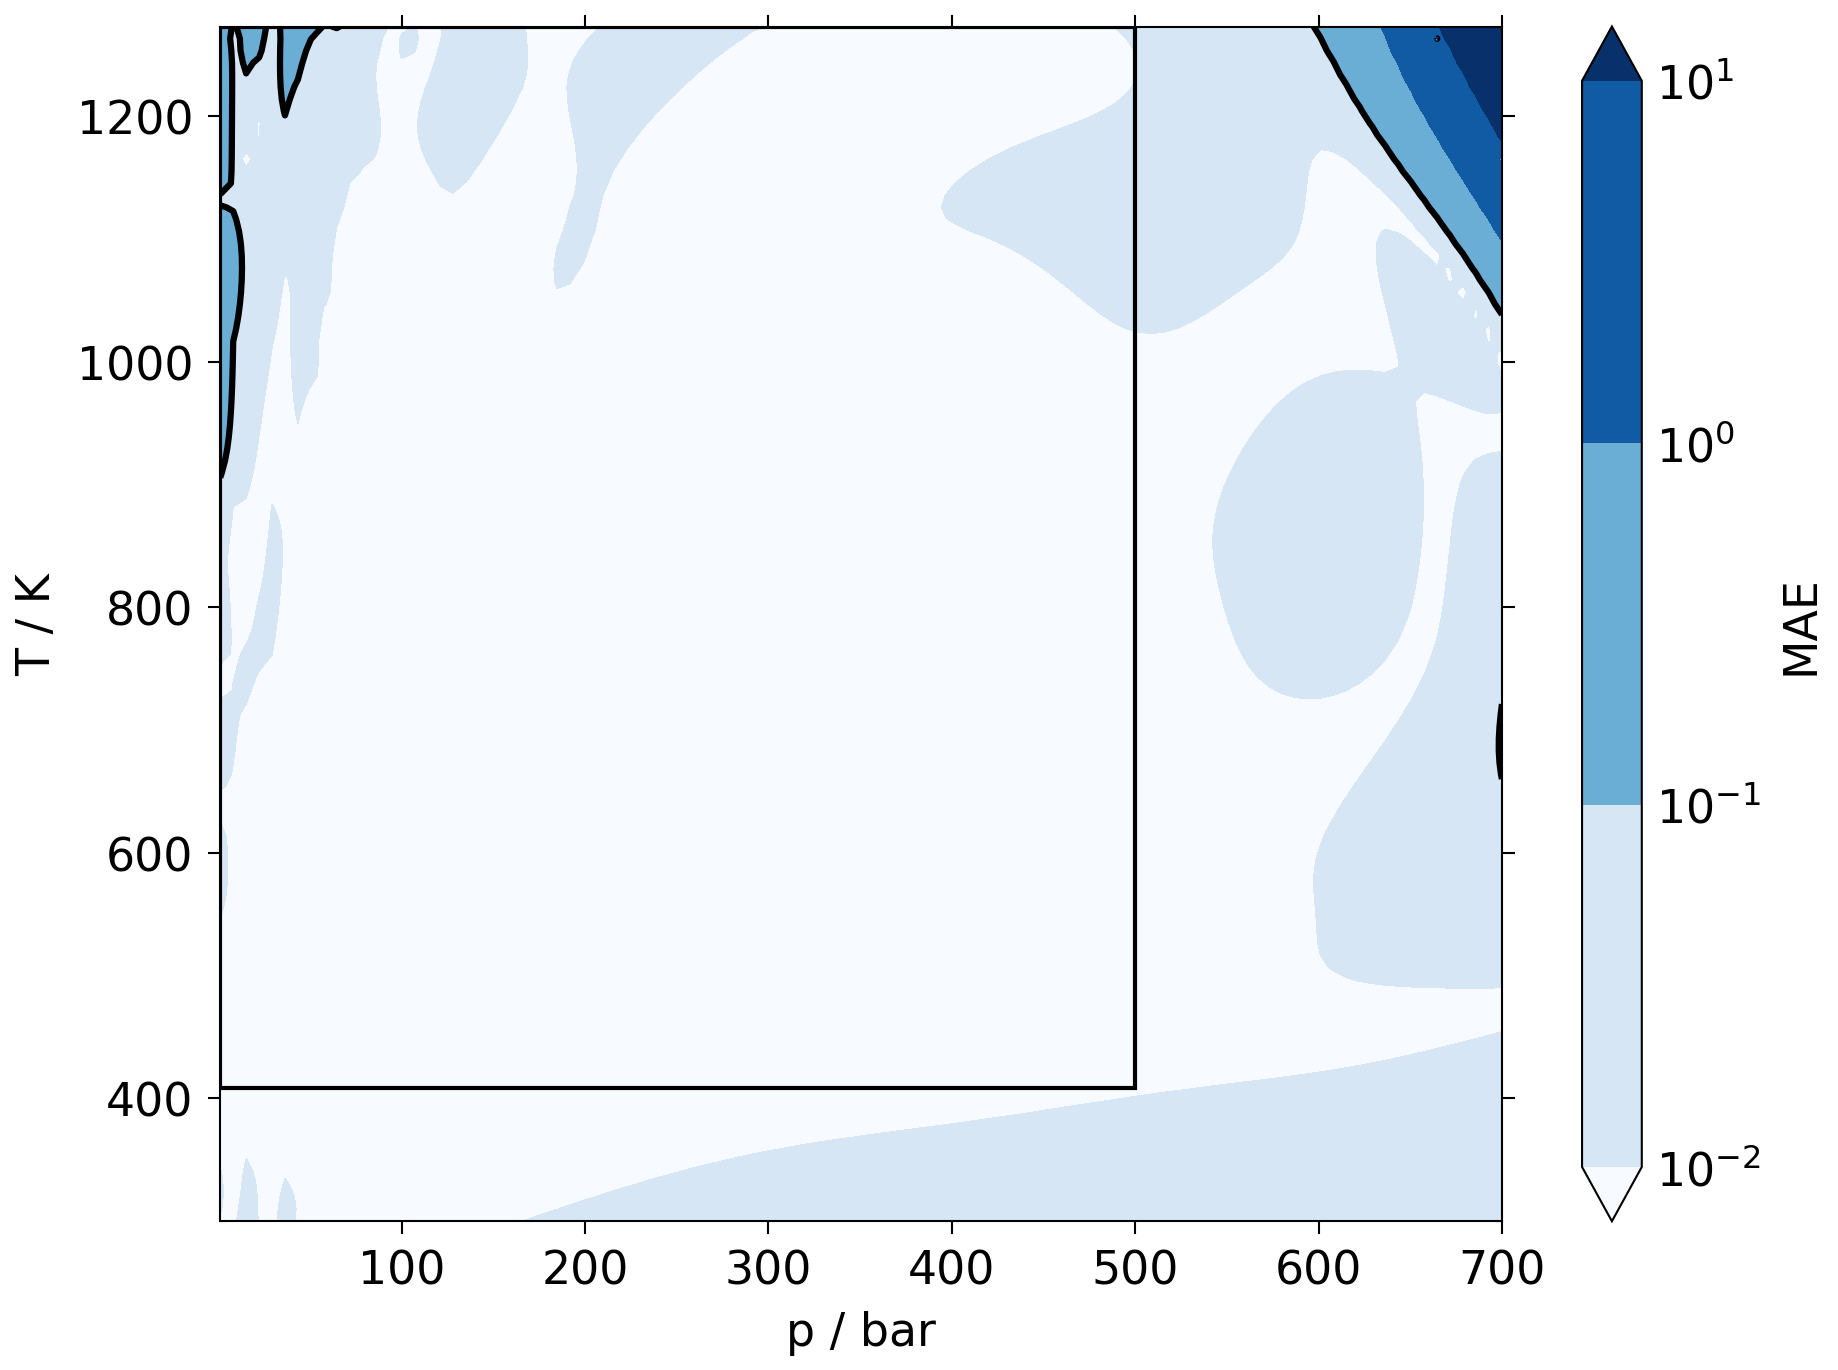
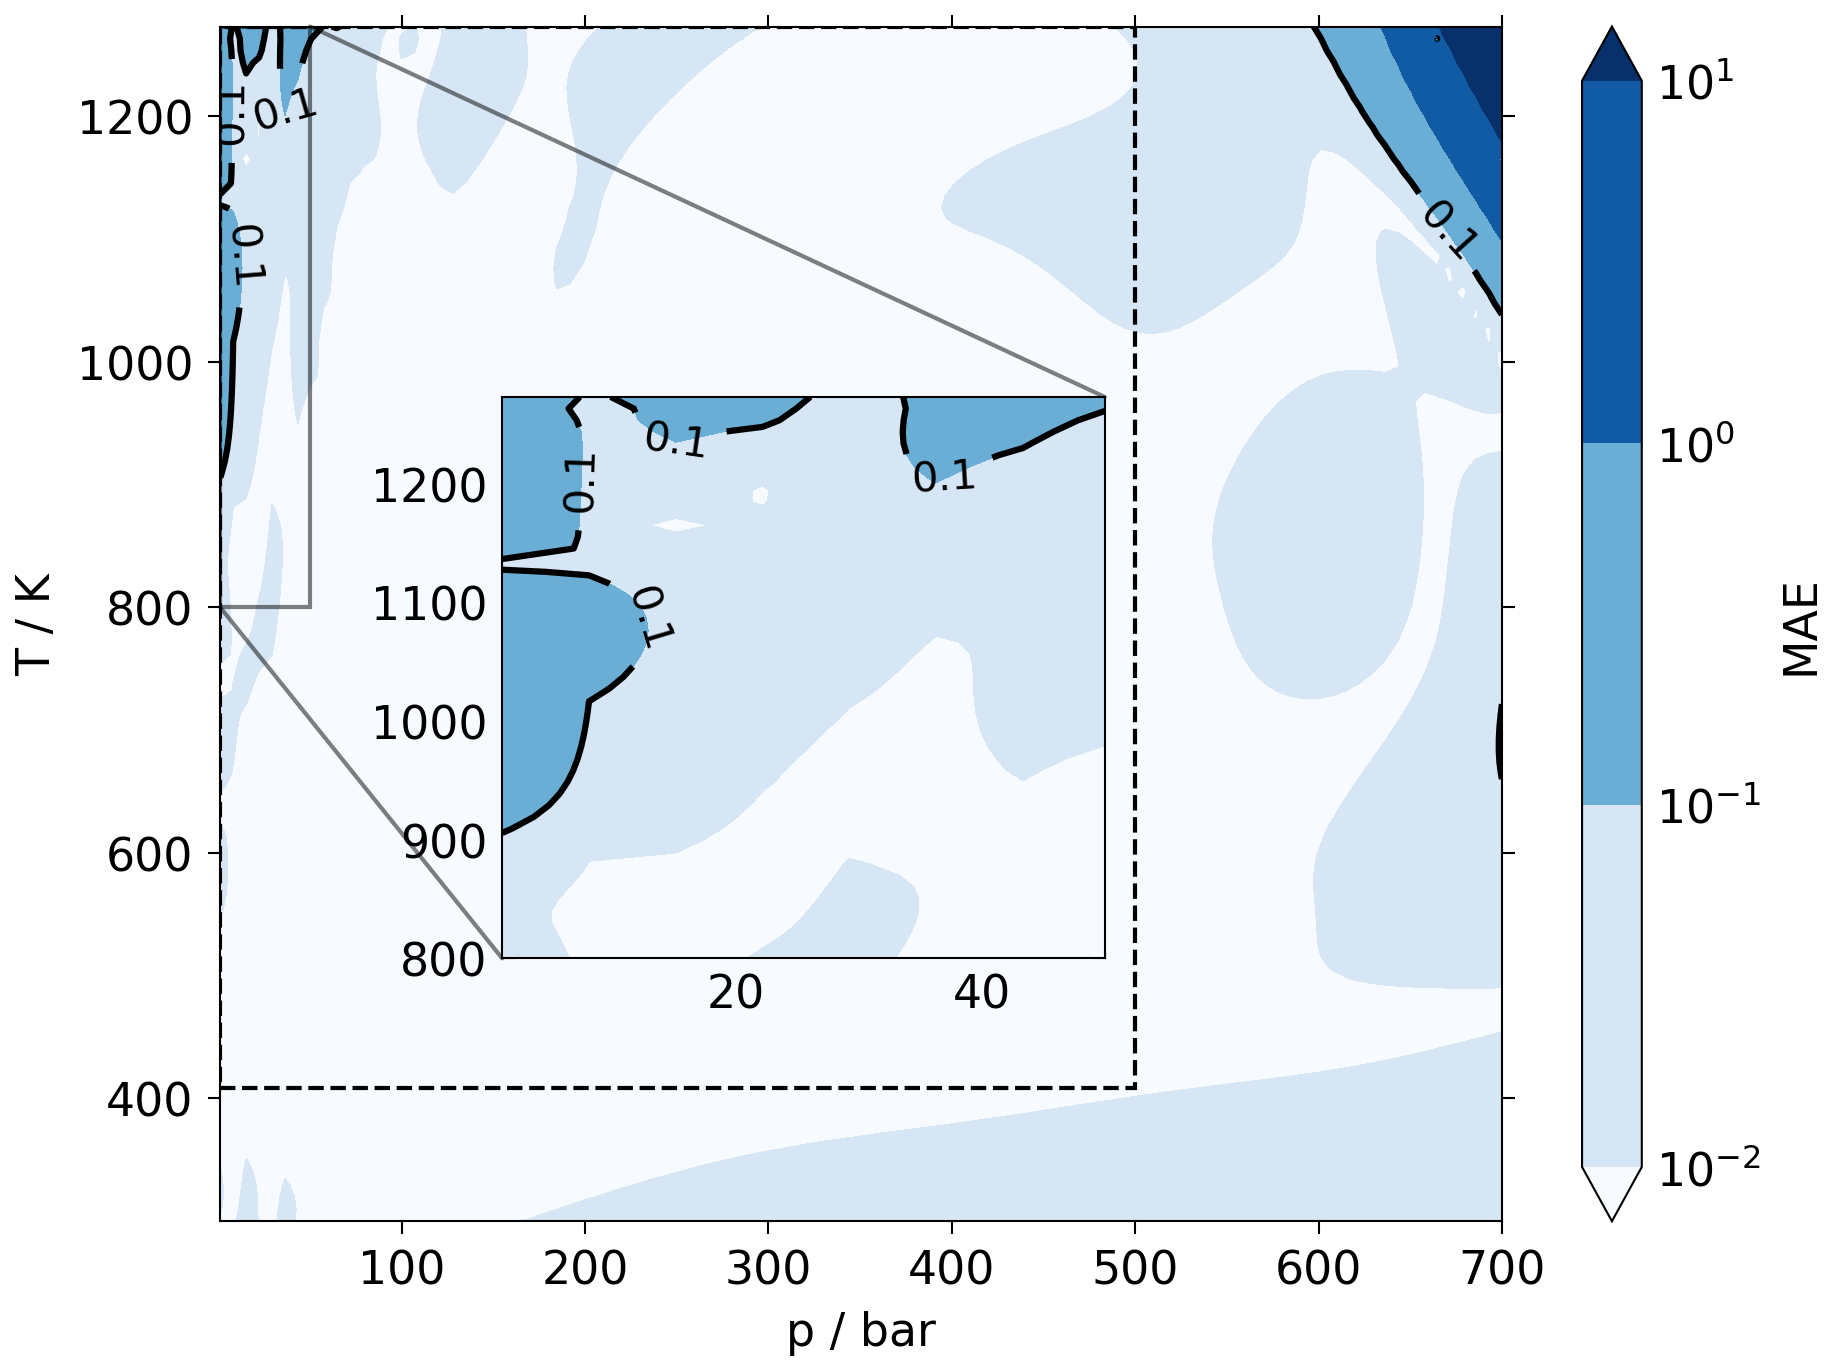
small cosmetic fixes

diff --git a/HSA_001_XXX/evaluation/HSA_001_001_parity_loguniform_2D.py b/HSA_001_XXX/evaluation/HSA_001_001_parity_loguniform_2D.py
@@ -89,8 +89,15 @@ pcm = ax.contourf(
     extend="both",
 )
 cl = ax.contour(pcm, levels=np.array([0.1]), colors="k")
+ax.clabel(cl, cl.levels, inline=True, fontsize=10)
 trained_range = Rectangle(
-    (1, 408.15), 499, 1273.15 - 408.15, linewidth=1, edgecolor="k", facecolor="none"
+    (1, 408.15),
+    499,
+    1273.15 - 408.15,
+    linewidth=1,
+    edgecolor="k",
+    facecolor="none",
+    linestyle="--",
 )
 ax.add_patch(trained_range)
 ax.legend()
@@ -102,144 +109,26 @@ cbar = fig.colorbar(pcm)
 cbar.set_label("MAE")
 
 ax.tick_params(direction="out")
+### inset axes
+in_ax = ax.inset_axes(
+    [0.22, 0.22, 0.47, 0.47],
+    xlim=(1, 50),
+    ylim=(800, 1273.15),
+)
+ax.indicate_inset_zoom(in_ax, edgecolor="black")
+pcm_2 = in_ax.contourf(
+    pg,
+    Tg,
+    MAE,
+    locator=ticker.LogLocator(),
+    levels=np.logspace(-2, 1, 4),
+    cmap="Blues",
+    extend="both",
+)
+cl_2 = in_ax.contour(pcm_2, levels=np.array([0.1]), colors="k")
+in_ax.clabel(cl_2, cl_2.levels, inline=True, fontsize=10)
 
 plt.grid()
 
 plt.savefig(Path.cwd() / "figures" / "HSA_001_001_parity_loguniform_2D.png", dpi=300)
-plt.show()
-
-exit()
-
-### Plotting
-
-fig = plt.figure(figsize=figsize)
-ax = make_square_ax(fig, **pos_params)
-bounds = (0, 1)
-
-# # Reset the limits
-# ax[0] = plt.gca()
-ax.set_xlim(bounds)
-ax.set_ylim(bounds)
-# Ensure the aspect ratio is square
-ax.set_aspect("equal", adjustable="box")
-
-
-ax.scatter(
-    x_eq[:, 0],
-    y_pred[:, 0],
-    # ".",
-    label=r"$x\mathregular{_{H_2}}$",
-    s=2,
-)
-ax.scatter(
-    x_eq[:, 2],
-    y_pred[:, 1],
-    label=r"$x\mathregular{_{NH_3}}$",
-    s=2,
-)
-
-# Error Lines
-ax.plot(
-    [0, 1],
-    [0, 1],
-    "-",
-    color="k",
-    lw=1,
-    # transform=ax.transAxes,
-    zorder=1,
-)
-ax.plot(
-    [bounds[0], bounds[1]],
-    [bounds[0] * 1.1, bounds[1] * 1.1],
-    "--",
-    color="k",
-    lw=0.7,
-)
-ax.plot(
-    [bounds[0], bounds[1]],
-    [bounds[0] * 0.9, bounds[1] * 0.9],
-    "--",
-    color="k",
-    lw=0.7,
-)
-
-ax.text(0.45, 0.75, "+10%", fontsize=10)
-ax.text(0.7, 0.55, "-10%", fontsize=10)
-ax.set(
-    xlabel="$x_i$ / 1",
-    ylabel=r"$x_i\mathregular{_{,pred}}$ / 1",
-    xticks=[0, 0.25, 0.5, 0.75, 1],
-    yticks=[0, 0.25, 0.5, 0.75, 1],
-)
-# ax.tick_params(direction="in")  # , length = 20, width = 3)
-# ax.set_title("A", loc="left")
-ax.legend(frameon=True)
-# ax[0].legend(['$\\mathregular{R^2}$ = ', r2(xi_real,xi_pred)], markerscale=0)
-x1, x2, y1, y2 = 0, 0.05, 0, 0.05  # subregion of origanal image
-axin0 = ax.inset_axes(
-    (0.56, 0.04, 0.4, 0.4),
-    xlim=(x1, x2),
-    ylim=(y1, y2),
-    xticks=[0, 0.025, 0.05],
-    yticks=[0, 0.025, 0.05],
-    xticklabels=[],
-    yticklabels=[],
-)
-
-
-axin0.scatter(x_eq[:, 0], y_pred[:, 0], s=2)
-axin0.scatter(x_eq[:, 2], y_pred[:, 1], s=2)
-# error lines
-axin0.plot(
-    [0, 1],
-    [0, 1],
-    "-",
-    color="k",
-    lw=1,
-    zorder=1,
-)
-axin0.plot(
-    [bounds[0], bounds[1]],
-    [bounds[0] * 1.1, bounds[1] * 1.1],
-    "k--",
-    lw=0.7,
-)
-axin0.plot(
-    [bounds[0], bounds[1]],
-    [bounds[0] * 0.9, bounds[1] * 0.9],
-    "k--",
-    lw=0.7,
-)
-
-rect = (x1, y1, x2 - x1, y2 - y1)
-box2 = ax.indicate_inset(rect, edgecolor="black", alpha=1, lw=0.7)
-
-cp1 = ConnectionPatch(
-    xyA=(0.05, 0.0),
-    xyB=(0, 0),
-    axesA=ax,
-    axesB=axin0,
-    coordsA="data",
-    coordsB="axes fraction",
-    lw=0.7,
-    ls=":",
-    zorder=100,
-)
-cp2 = ConnectionPatch(
-    xyA=(0.05, 0.05),
-    xyB=(0, 1),
-    axesA=ax,
-    axesB=axin0,
-    coordsA="data",
-    coordsB="axes fraction",
-    lw=0.7,
-    ls=":",
-    zorder=100,
-)
-
-ax.add_patch(cp1)
-ax.add_patch(cp2)
-
-# plt.legend()
-# fig.suptitle("Parity Plot")
 plt.show()

diff --git a/HSA_001_XXX/evaluation/HSA_001_001_parity_uniform_2D.py b/HSA_001_XXX/evaluation/HSA_001_001_parity_uniform_2D.py
@@ -86,12 +86,19 @@ pcm = ax.contourf(
     locator=ticker.LogLocator(),
     levels=np.logspace(-2, 1, 4),
     cmap="Blues",
+    # cmap="cividis",
     extend="both",
 )
-cl = ax.contour(pcm, levels=np.array([0.05, 0.1]), colors="k")
+cl = ax.contour(pcm, levels=np.array([0.1]), colors="k")
 ax.clabel(cl, cl.levels, inline=True, fontsize=10)
 trained_range = patches.Rectangle(
-    (1, 408.15), 499, 1273.15 - 408.15, linewidth=1, edgecolor="k", facecolor="none"
+    (1, 408.15),
+    499,
+    1273.15 - 408.15,
+    linewidth=1,
+    edgecolor="k",
+    facecolor="none",
+    linestyle="--",
 )
 _range = ax.add_patch(trained_range)
 
@@ -102,6 +109,24 @@ ax.set(
 cbar = fig.colorbar(pcm)
 cbar.set_label("MAE")
 
+### inset axes
+in_ax = ax.inset_axes(
+    [0.22, 0.22, 0.47, 0.47],
+    xlim=(1, 50),
+    ylim=(800, 1273.15),
+)
+ax.indicate_inset_zoom(in_ax, edgecolor="black")
+pcm_2 = in_ax.contourf(
+    pg,
+    Tg,
+    MAE,
+    locator=ticker.LogLocator(),
+    levels=np.logspace(-2, 1, 4),
+    cmap="Blues",
+    extend="both",
+)
+cl_2 = in_ax.contour(pcm_2, levels=np.array([0.1]), colors="k")
+in_ax.clabel(cl_2, cl_2.levels, inline=True, fontsize=10)
 ax.tick_params(direction="out")
 
 plt.grid()

diff --git a/HSA_001_XXX/evaluation/HSA_001_003_parity_loguniform_2D.py b/HSA_001_XXX/evaluation/HSA_001_003_parity_loguniform_2D.py
@@ -105,11 +105,29 @@ ax.set(
     xlabel="p / bar",
     ylabel="T / K",
 )
-fig.colorbar(pcm)
 cbar = fig.colorbar(pcm)
 cbar.set_label("MAE")
 
 ax.tick_params(direction="out")
+
+### inset axes
+in_ax = ax.inset_axes(
+    [0.5, 0.5, 0.47, 0.47],
+    xlim=(1, 50),
+    ylim=(800, 1273.15),
+)
+ax.indicate_inset_zoom(in_ax, edgecolor="black")
+pcm_2 = in_ax.contourf(
+    pg,
+    Tg,
+    MAE,
+    locator=ticker.LogLocator(),
+    levels=np.logspace(-2, 1, 4),
+    cmap="Blues",
+    extend="both",
+)
+cl_2 = in_ax.contour(pcm_2, levels=np.array([0.1]), colors="k")
+in_ax.clabel(cl_2, cl_2.levels, inline=True, fontsize=10)
 
 plt.grid()
 

diff --git a/HSA_001_XXX/evaluation/HSA_001_003_parity_uniform_2D.py b/HSA_001_XXX/evaluation/HSA_001_003_parity_uniform_2D.py
@@ -107,6 +107,24 @@ ax.set(
 )
 cbar = fig.colorbar(pcm)
 cbar.set_label("MAE")
+### inset axes
+in_ax = ax.inset_axes(
+    [0.5, 0.5, 0.47, 0.47],
+    xlim=(1, 50),
+    ylim=(800, 1273.15),
+)
+ax.indicate_inset_zoom(in_ax, edgecolor="black")
+pcm_2 = in_ax.contourf(
+    pg,
+    Tg,
+    MAE,
+    locator=ticker.LogLocator(),
+    levels=np.logspace(-2, 1, 4),
+    cmap="Blues",
+    extend="both",
+)
+cl_2 = in_ax.contour(pcm_2, levels=np.array([0.1]), colors="k")
+in_ax.clabel(cl_2, cl_2.levels, inline=True, fontsize=10)
 
 ax.tick_params(direction="out")
 
